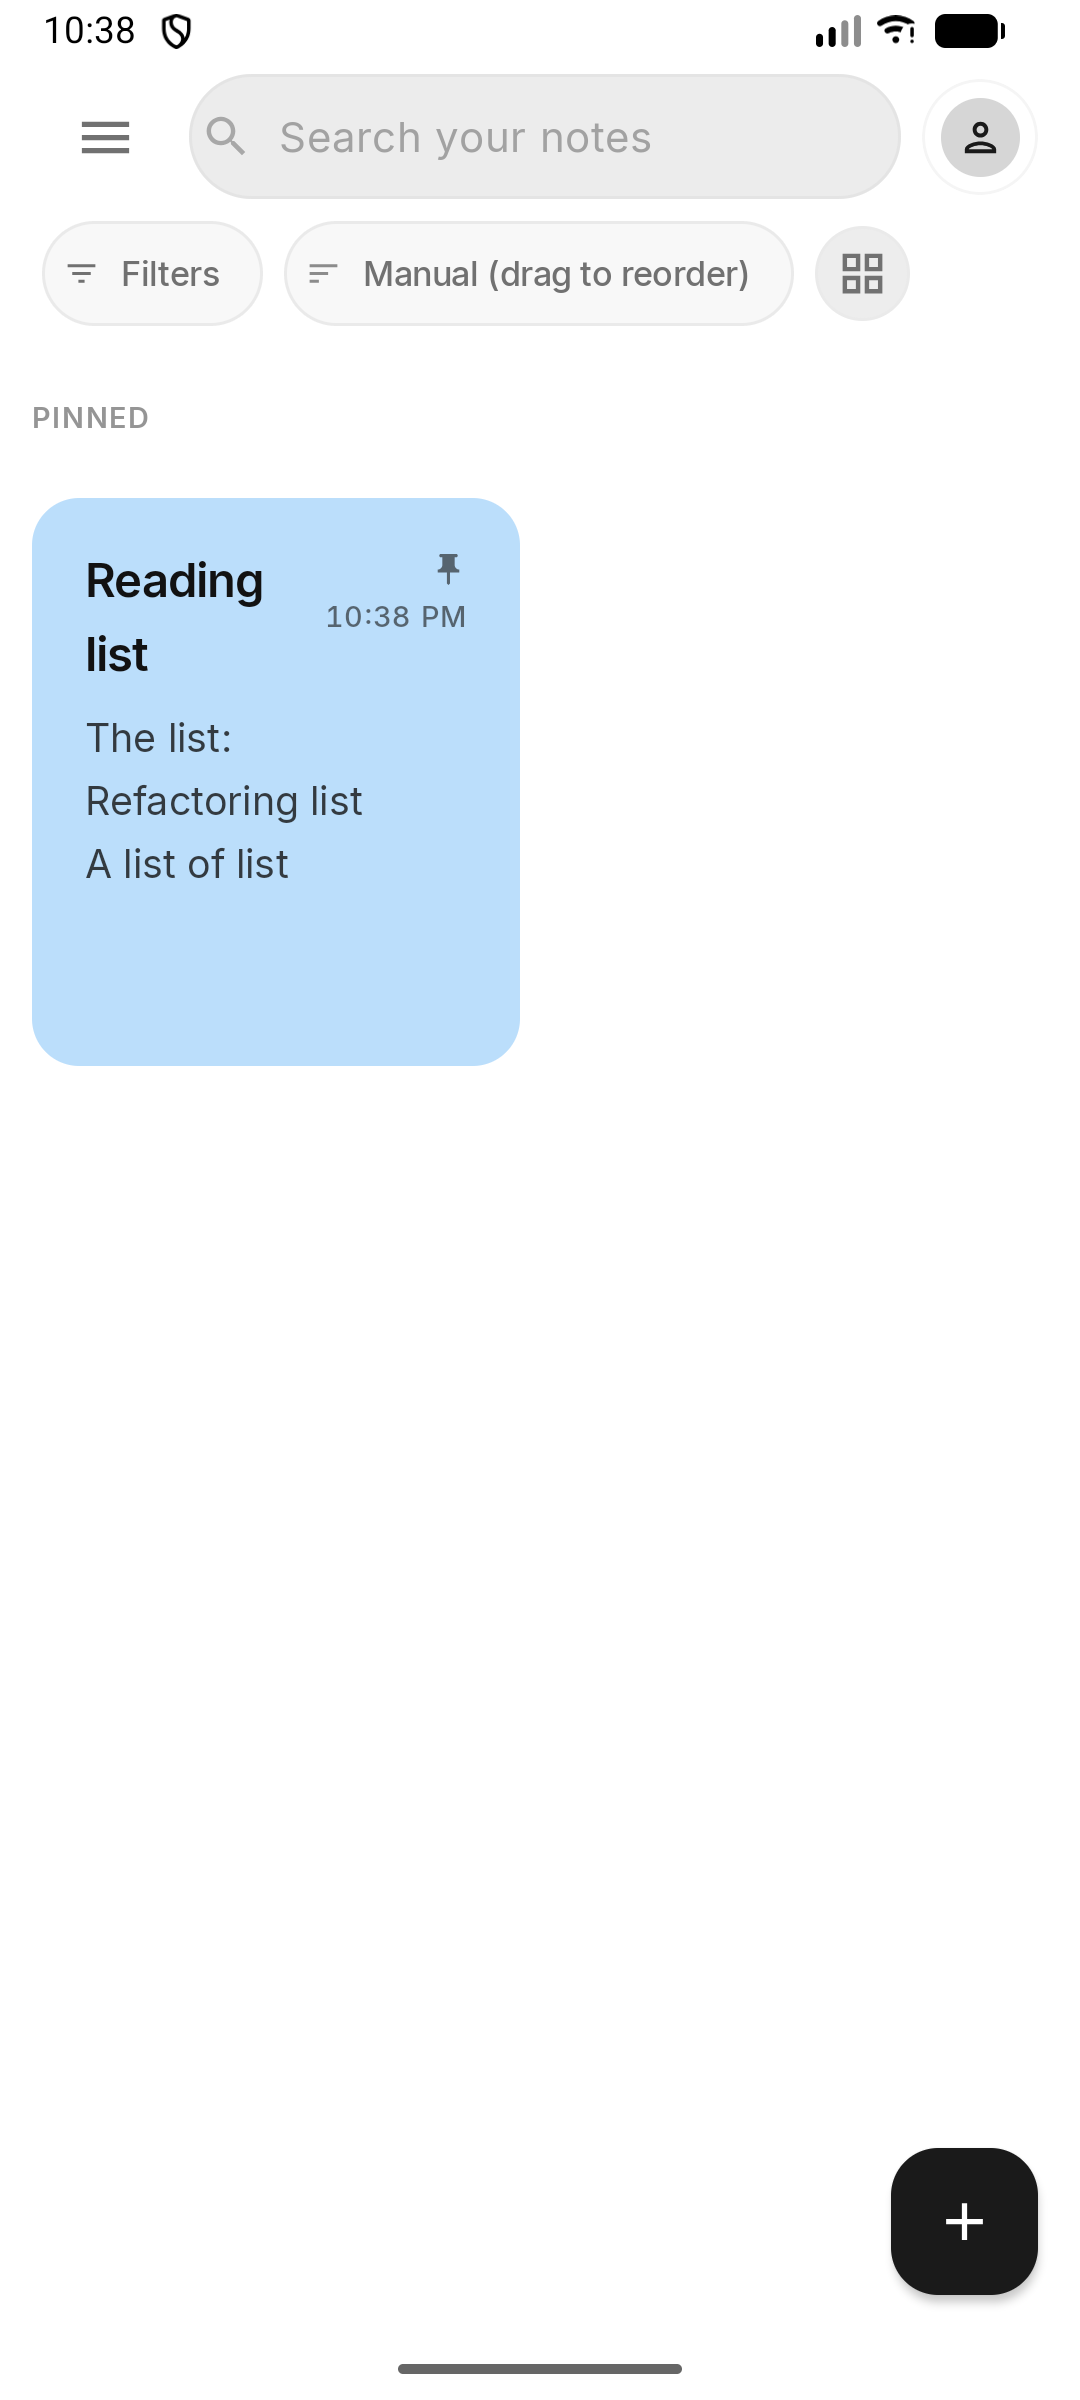
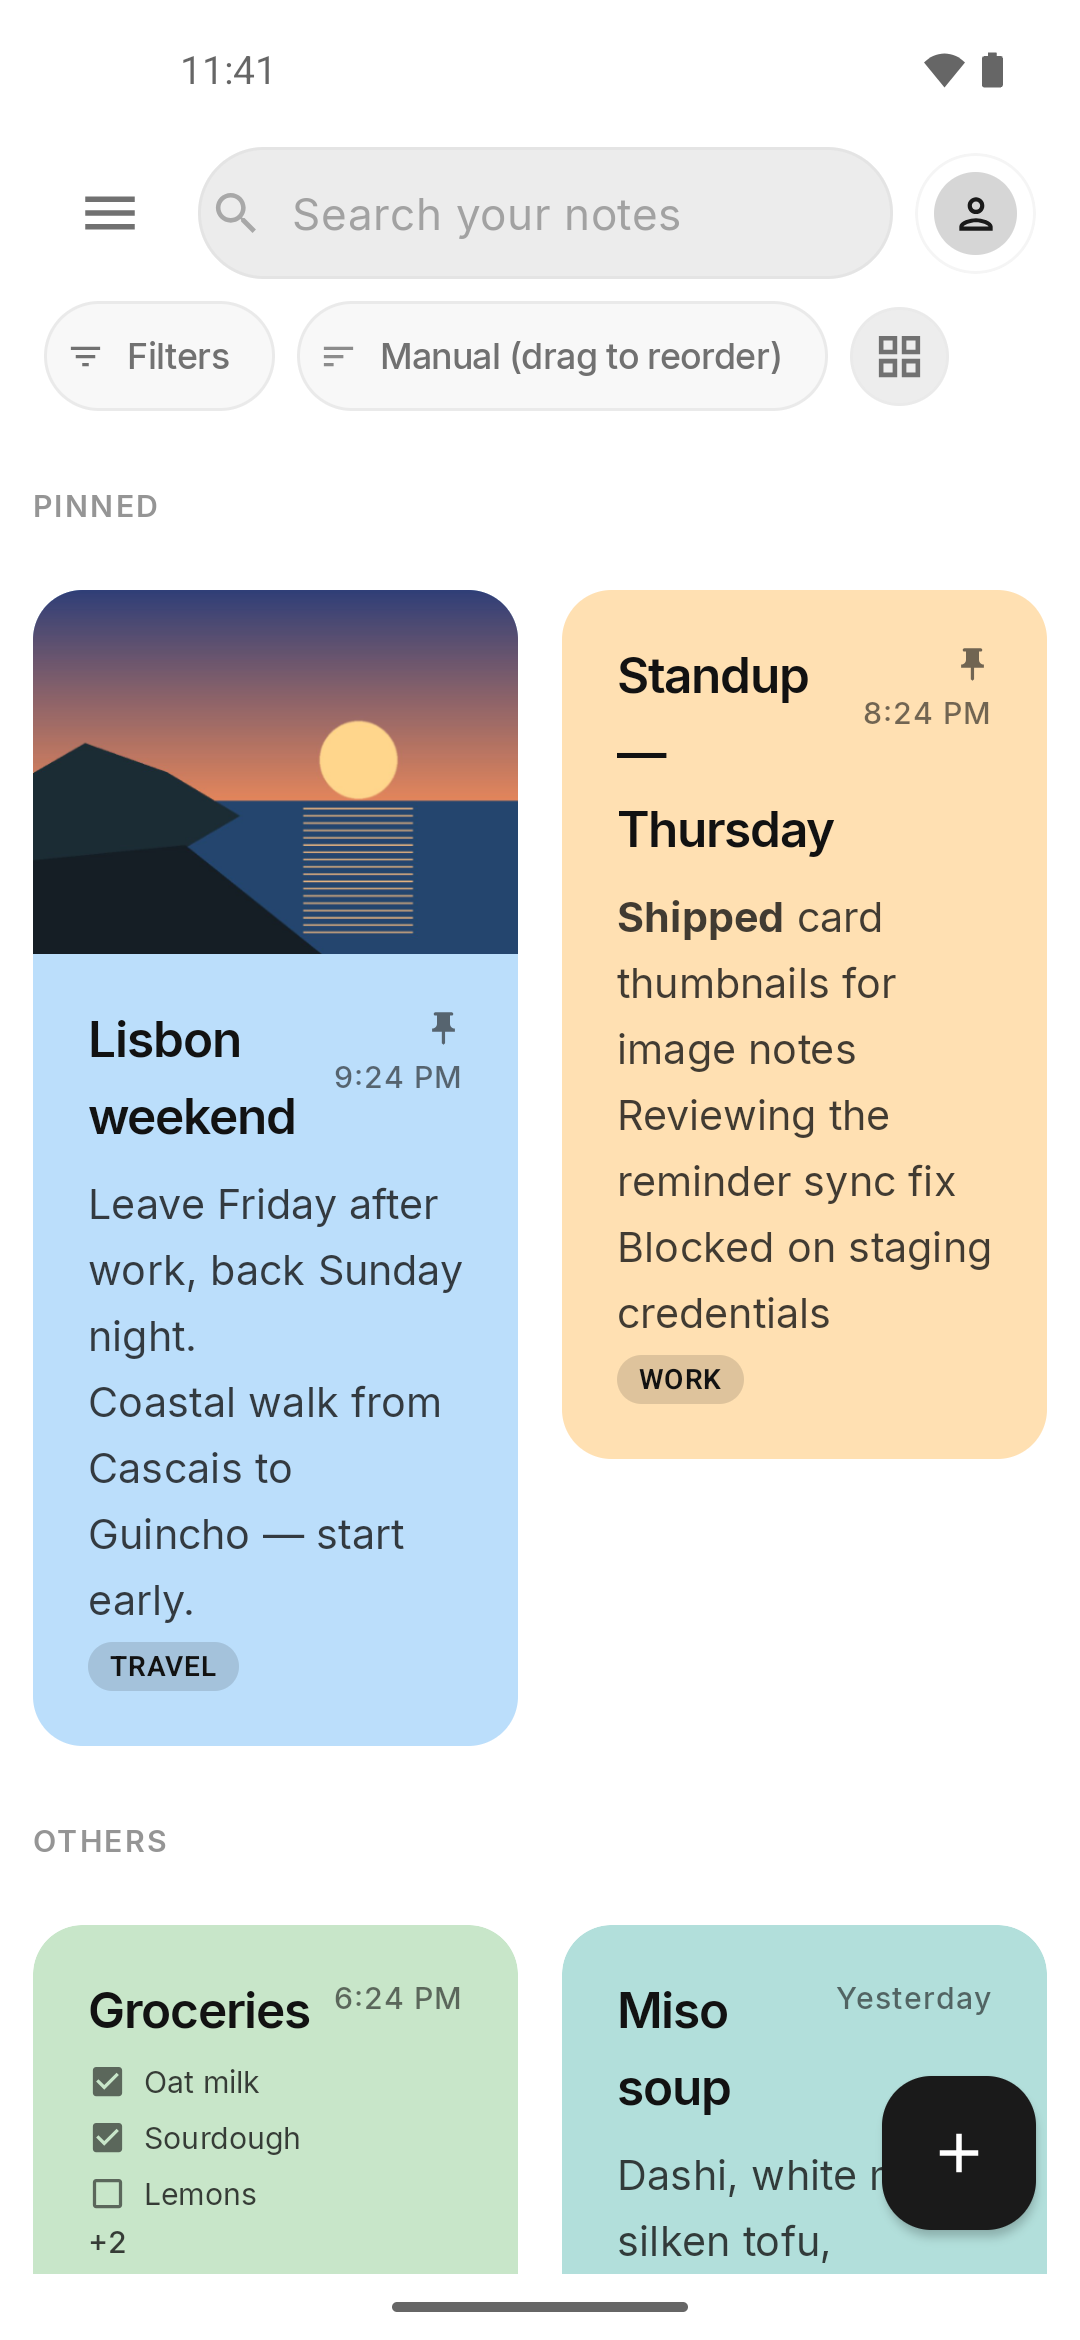
chore: refresh screenshots and docs, fix .nlkbak wiring and the MSI runtime
- README/CHANGELOG: current Android and web screenshots (image cards), JDK
  requirements, Unreleased notes since 2.0.0.
- fix(backup): MainViewModel was wired positionally in Koin; a parameter added
  ahead of bundleOperations left it on the no-op default, so .nlkbak import and
  export did nothing on Android and Windows. Wire by name and pin it with
  MainViewModelWiringTest.
- fix(desktop): bundle java.sql in the jlink runtime. The JDBC SQLCipher driver
  is the Windows default and the packaged app failed every database read with
  NoClassDefFoundError(java/sql/Driver).
- ci: switch Dependabot version-update PRs off; ignore holds are kept.
- docs: drop two unreferenced files from docs/evidence; ignore local scratch.

diff --git a/composeApp/src/androidUnitTest/kotlin/com/aus/notelikeus/di/MainViewModelWiringTest.kt b/composeApp/src/androidUnitTest/kotlin/com/aus/notelikeus/di/MainViewModelWiringTest.kt
@@ -1,0 +1,109 @@
+package com.aus.notelikeus.di
+
+import android.util.Log
+import com.aus.notelikeus.data.backup.BackupBundleOperations
+import com.aus.notelikeus.data.backup.NoteBackupExporter
+import com.aus.notelikeus.data.backup.NoteBackupImporter
+import com.aus.notelikeus.domain.diagnostics.DiagnosticsCollector
+import com.aus.notelikeus.domain.model.NoteSortOrder
+import com.aus.notelikeus.domain.model.NoteViewMode
+import com.aus.notelikeus.domain.repository.LocalCommitTokenProvider
+import com.aus.notelikeus.domain.repository.NoteRepository
+import com.aus.notelikeus.domain.repository.SettingsRepository
+import com.aus.notelikeus.domain.repository.SyncManager
+import com.aus.notelikeus.ui.editor.FakeLocalCommitTokenProvider
+import com.aus.notelikeus.ui.main.CloudAccount
+import com.aus.notelikeus.ui.main.CloudSyncEvent
+import com.aus.notelikeus.ui.main.CloudSyncStatus
+import com.aus.notelikeus.ui.main.MainViewModel
+import io.mockk.every
+import io.mockk.mockk
+import io.mockk.mockkStatic
+import io.mockk.unmockkStatic
+import io.mockk.verify
+import kotlinx.coroutines.CoroutineDispatcher
+import kotlinx.coroutines.Dispatchers
+import kotlinx.coroutines.ExperimentalCoroutinesApi
+import kotlinx.coroutines.flow.MutableStateFlow
+import kotlinx.coroutines.flow.flowOf
+import kotlinx.coroutines.test.UnconfinedTestDispatcher
+import kotlinx.coroutines.test.resetMain
+import kotlinx.coroutines.test.setMain
+import org.junit.After
+import org.junit.Assert.assertTrue
+import org.junit.Before
+import org.junit.Test
+import org.koin.dsl.koinApplication
+import org.koin.dsl.module
+
+/**
+ * Builds [MainViewModel] through the real [sharedModule] definition rather than by hand.
+ *
+ * `diagnostics` and `bundleOperations` have defaults, so when a constructor parameter was added
+ * ahead of them and the module's positional `get()` list was not extended, `bundleOperations`
+ * quietly became the no-op and `.nlkbak` import/export stopped working on Android and Windows
+ * while every hand-built test still passed. This pins the module, not the constructor.
+ */
+@OptIn(ExperimentalCoroutinesApi::class)
+class MainViewModelWiringTest {
+
+    private val testDispatcher = UnconfinedTestDispatcher()
+
+    @Before
+    fun setup() {
+        Dispatchers.setMain(testDispatcher)
+        mockkStatic(Log::class)
+        every { Log.i(any(), any()) } returns 0
+        every { Log.w(any(), any<String>()) } returns 0
+        every { Log.w(any(), any<String>(), any()) } returns 0
+        every { Log.e(any(), any<String>()) } returns 0
+        every { Log.e(any(), any<String>(), any()) } returns 0
+    }
+
+    @After
+    fun tearDown() {
+        unmockkStatic(Log::class)
+        Dispatchers.resetMain()
+    }
+
+    @Test
+    fun `the module hands MainViewModel the platform bundle operations`() {
+        val bundleOperations = mockk<BackupBundleOperations>()
+        every { bundleOperations.looksLikeBundle(any(), any()) } returns true
+
+        val koin = koinApplication {
+            allowOverride(true)
+            modules(sharedModule, fakePlatform(bundleOperations))
+        }.koin
+
+        val viewModel = koin.get<MainViewModel>()
+
+        assertTrue(viewModel.looksLikeBackupBundle("notes.nlkbak", byteArrayOf(0x50, 0x4b)))
+        verify { bundleOperations.looksLikeBundle("notes.nlkbak", any()) }
+        koin.close()
+    }
+
+    private fun fakePlatform(bundleOperations: BackupBundleOperations) = module {
+        val repository = mockk<NoteRepository>(relaxed = true)
+        every { repository.getActiveNotes() } returns flowOf(emptyList())
+        val settings = mockk<SettingsRepository>(relaxed = true)
+        every { settings.isAppLockEnabled } returns flowOf(false)
+        every { settings.noteViewMode } returns flowOf(NoteViewMode.GRID_2)
+        every { settings.noteSortOrder } returns flowOf(NoteSortOrder.MANUAL)
+        every { settings.isCloudAutoSyncEnabled } returns flowOf(true)
+        val syncManager = mockk<SyncManager>(relaxed = true)
+        every { syncManager.cloudAccount } returns MutableStateFlow(CloudAccount())
+        every { syncManager.syncStatus } returns MutableStateFlow(CloudSyncStatus.Synced)
+        every { syncManager.pendingEvent } returns MutableStateFlow<CloudSyncEvent?>(null)
+
+        single<NoteRepository> { repository }
+        single<SettingsRepository> { settings }
+        single<LocalCommitTokenProvider> { FakeLocalCommitTokenProvider() }
+        single<CoroutineDispatcher> { testDispatcher }
+        single<SyncManager> { syncManager }
+        single { mockk<NoteBackupExporter>(relaxed = true) }
+        single { mockk<NoteBackupImporter>(relaxed = true) }
+        single { mockk<DiagnosticsCollector>(relaxed = true) }
+        single { bundleOperations }
+    }
+}

diff --git a/composeApp/src/commonMain/kotlin/com/aus/notelikeus/di/Koin.kt b/composeApp/src/commonMain/kotlin/com/aus/notelikeus/di/Koin.kt
@@ -26,7 +26,22 @@ val sharedModule = module {
     
     single { Dispatchers.IO }
     
-    viewModel { MainViewModel(get(), get(), get(), get(), get(), get(), get(), get()) }
+    // Named, not positional: `diagnostics` and `bundleOperations` have defaults, so a parameter
+    // added ahead of them shifts every positional get() along and the last one silently falls
+    // back to its default instead of failing. That is how .nlkbak import/export became a no-op.
+    viewModel {
+        MainViewModel(
+            repository = get(),
+            localCommitTokenProvider = get(),
+            settingsRepository = get(),
+            backupExporter = get(),
+            backupImporter = get(),
+            syncManager = get(),
+            defaultDispatcher = get(),
+            diagnostics = get(),
+            bundleOperations = get(),
+        )
+    }
     viewModel { params -> 
         EditorViewModel(get(), get(), params.get(), get(), syncManager = getOrNull(), localCommitTokenProvider = get())
     }

diff --git a/README.md b/README.md
@@ -16,11 +16,11 @@ Android and Windows share a Kotlin Multiplatform core with a Compose UI. The web
 
 **Web**
 
-<img src="screenshots/web-notes.png" width="395" alt="Web note grid with pinned notes, filters and layout toggles" /> <img src="screenshots/web-editor.png" width="395" alt="Web note editor with the rich-text toolbar" />
+<img src="screenshots/web-notes.png" width="395" alt="Web note grid: a pinned image note shows its picture on the card, with colour and label filters" /> <img src="screenshots/web-editor.png" width="395" alt="Web note editor with an image attachment and the rich-text toolbar" />
 
 **Android**
 
-<img src="screenshots/android-settings.png" width="190" alt="Android settings: theme, accent, pure black, app lock" /> <img src="screenshots/android-drawer.png" width="190" alt="Android navigation drawer with Notes, Archive, Trash and smart views" /> <img src="screenshots/android-notes.png" width="190" alt="Android notes list with a pinned card and filter chips" /> <img src="screenshots/android-editor.png" width="190" alt="Android note editor with the rich-text toolbar" />
+<img src="screenshots/android-notes.png" width="190" alt="Android notes grid with an image card, rich text, labels and a checklist" /> <img src="screenshots/android-editor.png" width="190" alt="Android note editor with an image attachment and the rich-text toolbar" /> <img src="screenshots/android-drawer.png" width="190" alt="Android navigation drawer with Notes, Archive, Trash and smart views" /> <img src="screenshots/android-settings.png" width="190" alt="Android settings: theme, accent, pure black, app lock" />
 
 ## Features
 
@@ -33,7 +33,7 @@ Android and Windows share a Kotlin Multiplatform core with a Compose UI. The web
 | Multi-select and bulk actions | ✓ | ✓ | ✓ |
 | Swipe actions with undo | ✓ | ✓ | ✓ |
 | Manual reorder in list view | ✓ | ✓ | ✓ |
-| Image attachments | ✓ | ✓ | ✓ |
+| Image attachments, with the first picture on the card | ✓ | ✓ | ✓ |
 | Theme, accent, pure black | ✓ | ✓ | ✓ |
 | Reminders, with presets and an exact date & time | Notifications | Tray, while the app runs | Service worker |
 | Encrypted local database | SQLCipher | SQLCipher (DPAPI key) | WebCrypto (note bodies) |
@@ -79,7 +79,7 @@ Something not syncing has a settings screen for it. Sync diagnostics shows count
 ## Getting started
 
 Android 8.0 (API 26) is the minimum supported release, and the desktop build ships as a
-Windows MSI. Building needs JDK 17 for the Kotlin targets and Node.js 24 for the web app;
+Windows MSI. Building needs JDK 21 for the Gradle daemon and JDK 17 for the build, plus Node.js 24 for the web app;
 the database suite needs Docker for the Supabase CLI.
 
 ```bash

diff --git a/CHANGELOG.md b/CHANGELOG.md
@@ -4,6 +4,17 @@ All notable changes to Notelikeus are documented here.
 
 ## [Unreleased]
 
+### Added
+- **An image note shows its first picture on its card**, on Android and the web, with a screen-reader hint that the card has an image.
+
+### Fixed
+- **Backup with images (`.nlkbak`) did nothing on Android and Windows.** The note list's view model was wired with positional arguments; when a parameter was added ahead of the bundle support, the bundle support quietly fell back to a do-nothing default, so picking a `.nlkbak` file failed as unreadable JSON and exporting one was unavailable. The wiring is now by name and covered by a test that builds the view model through the real module.
+- **The installed Windows app could not open its notes.** The packaged runtime left out `java.sql`, which the encrypted database driver needs, so every read failed with `NoClassDefFoundError: java/sql/Driver` while `./gradlew run` — with the whole JDK on hand — worked. The module is now bundled.
+- **Reminders:** clearing a reminder now syncs, so the cloud can no longer bring a cleared reminder back.
+- **Editor:** opening a note and leaving it unchanged no longer saves, re-stamps or re-uploads it.
+- **Sync:** a refused attachment upload no longer blocks the note itself from syncing, and only an HTTP 401 is treated as an expired session.
+- **Web on phones:** the notes screen no longer scrolls sideways, pin/archive/trash are reachable by touch, and small controls (checklist ticks, colour swatches, reminder buttons) have 44px tap targets.
+
 ## [2.0.0] — 2026-10-08
 
 ### Fixed
